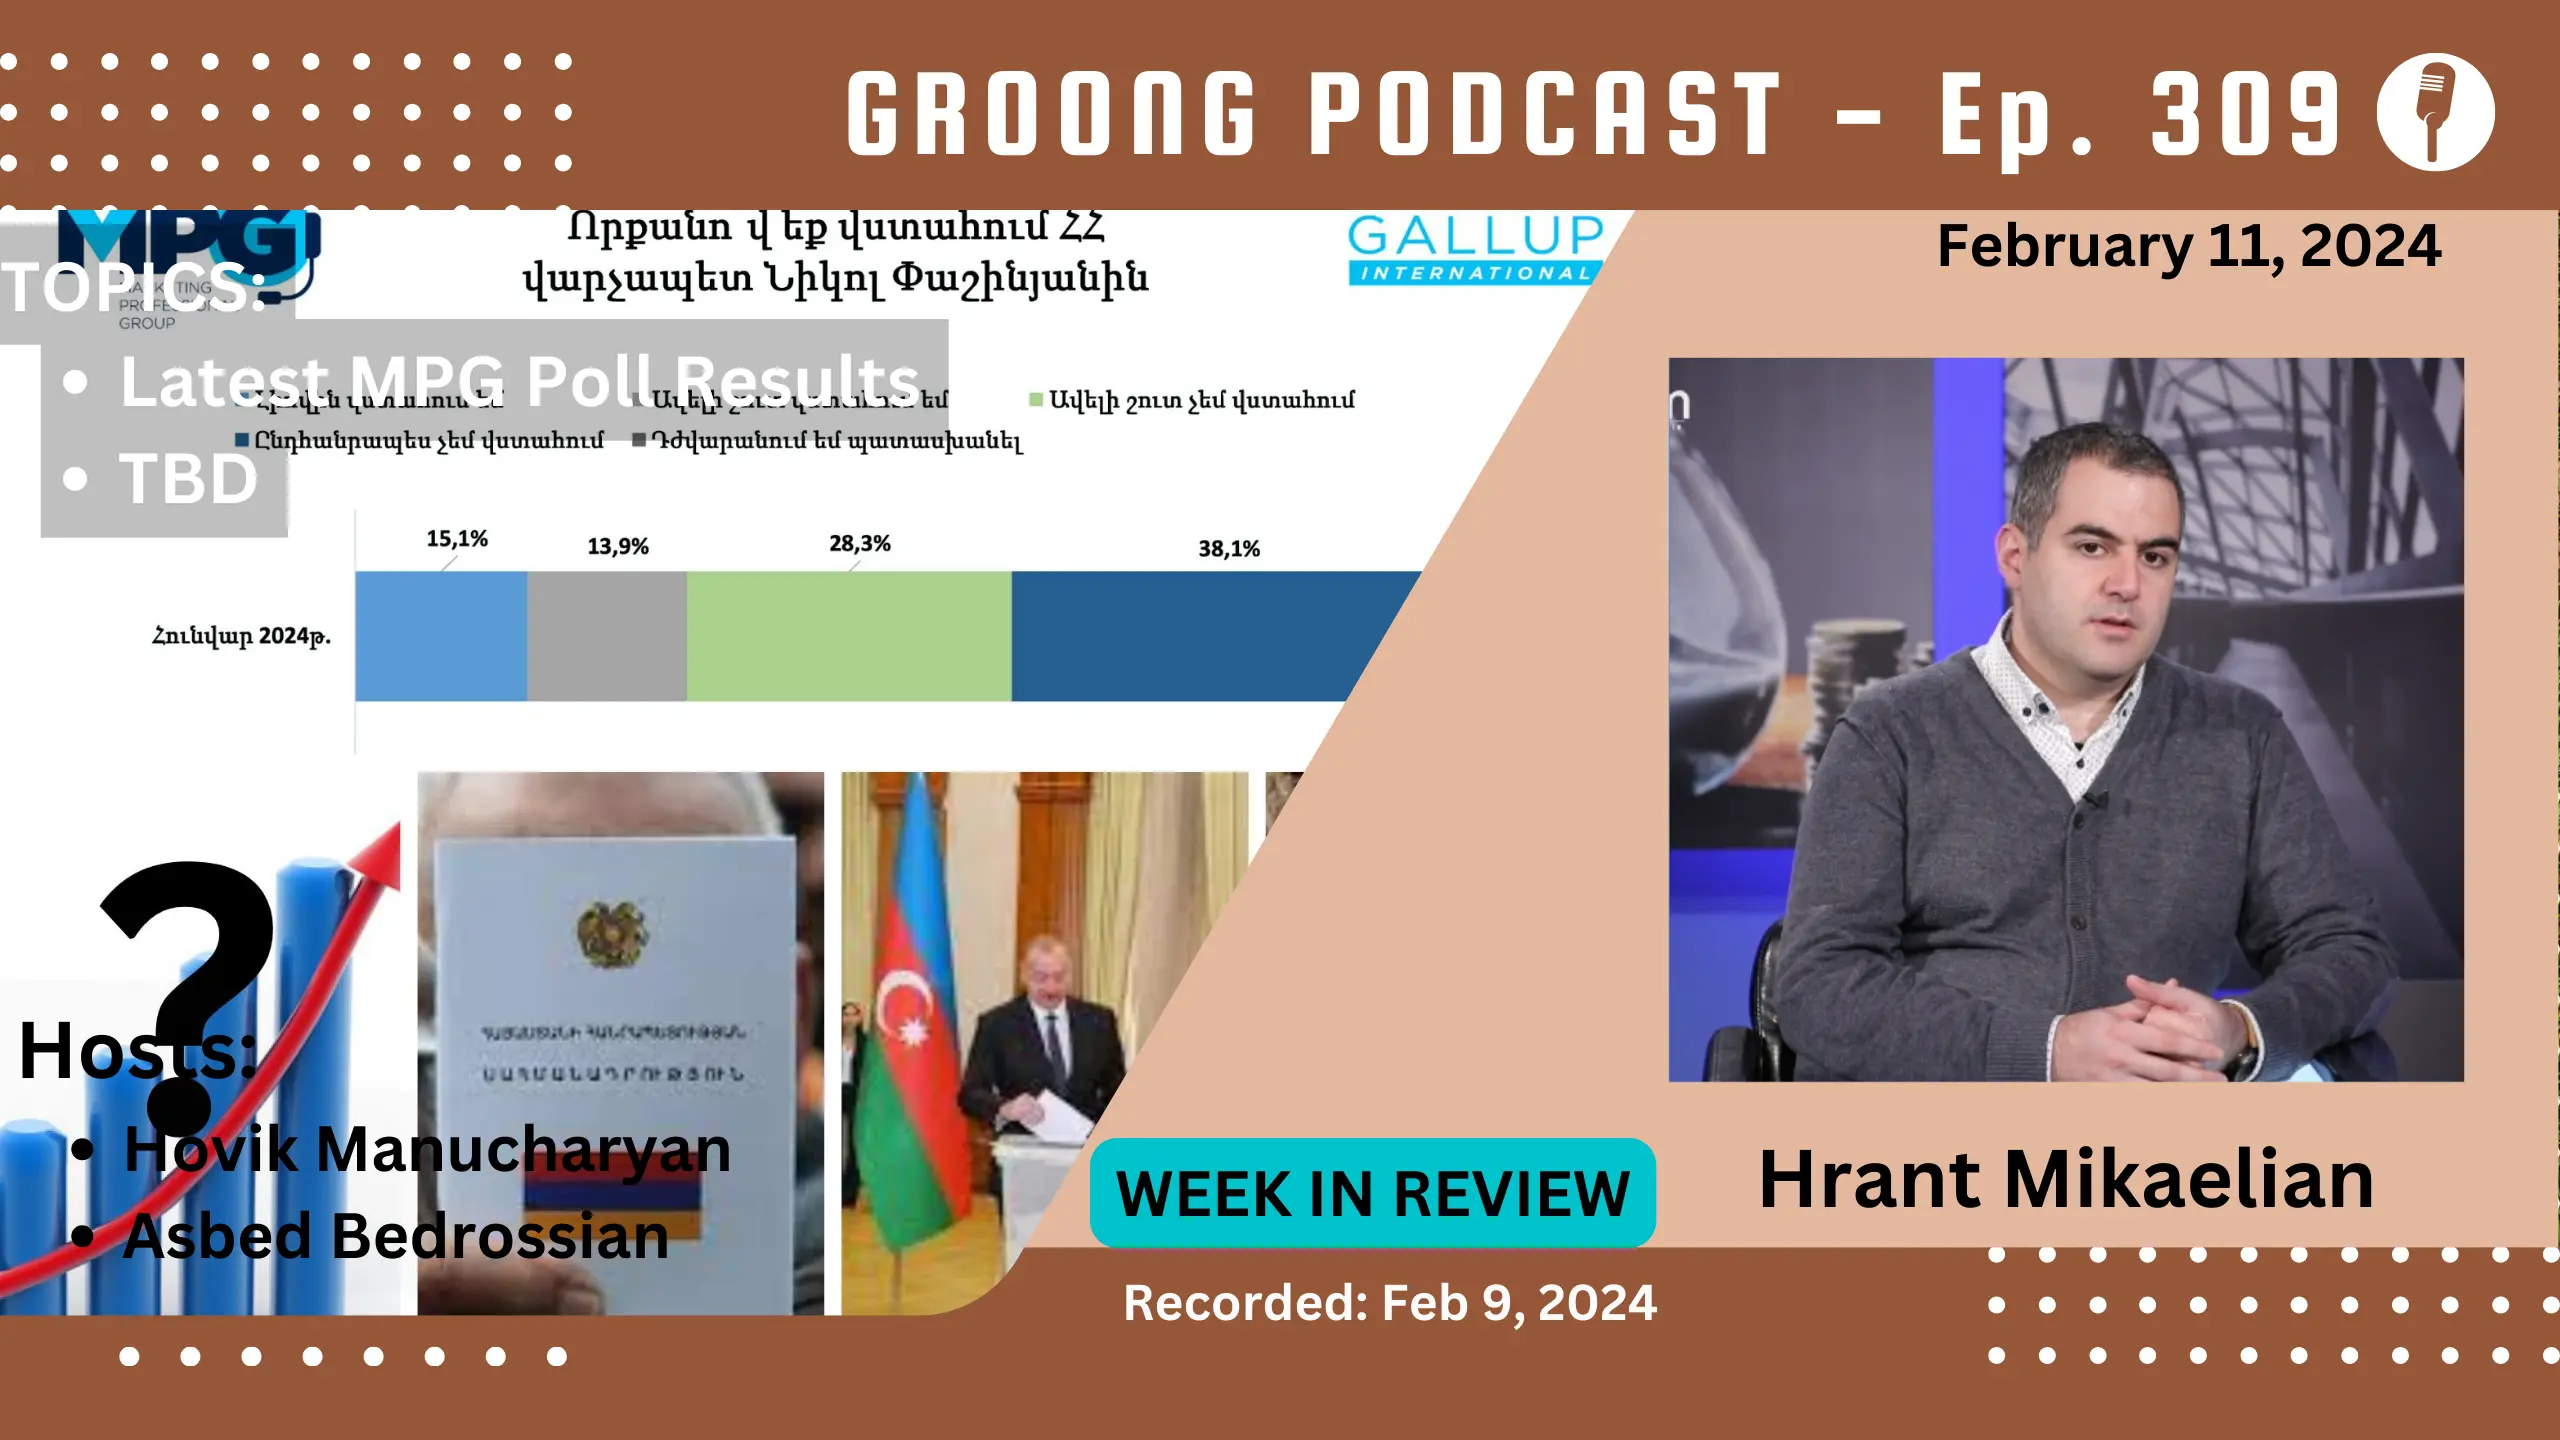
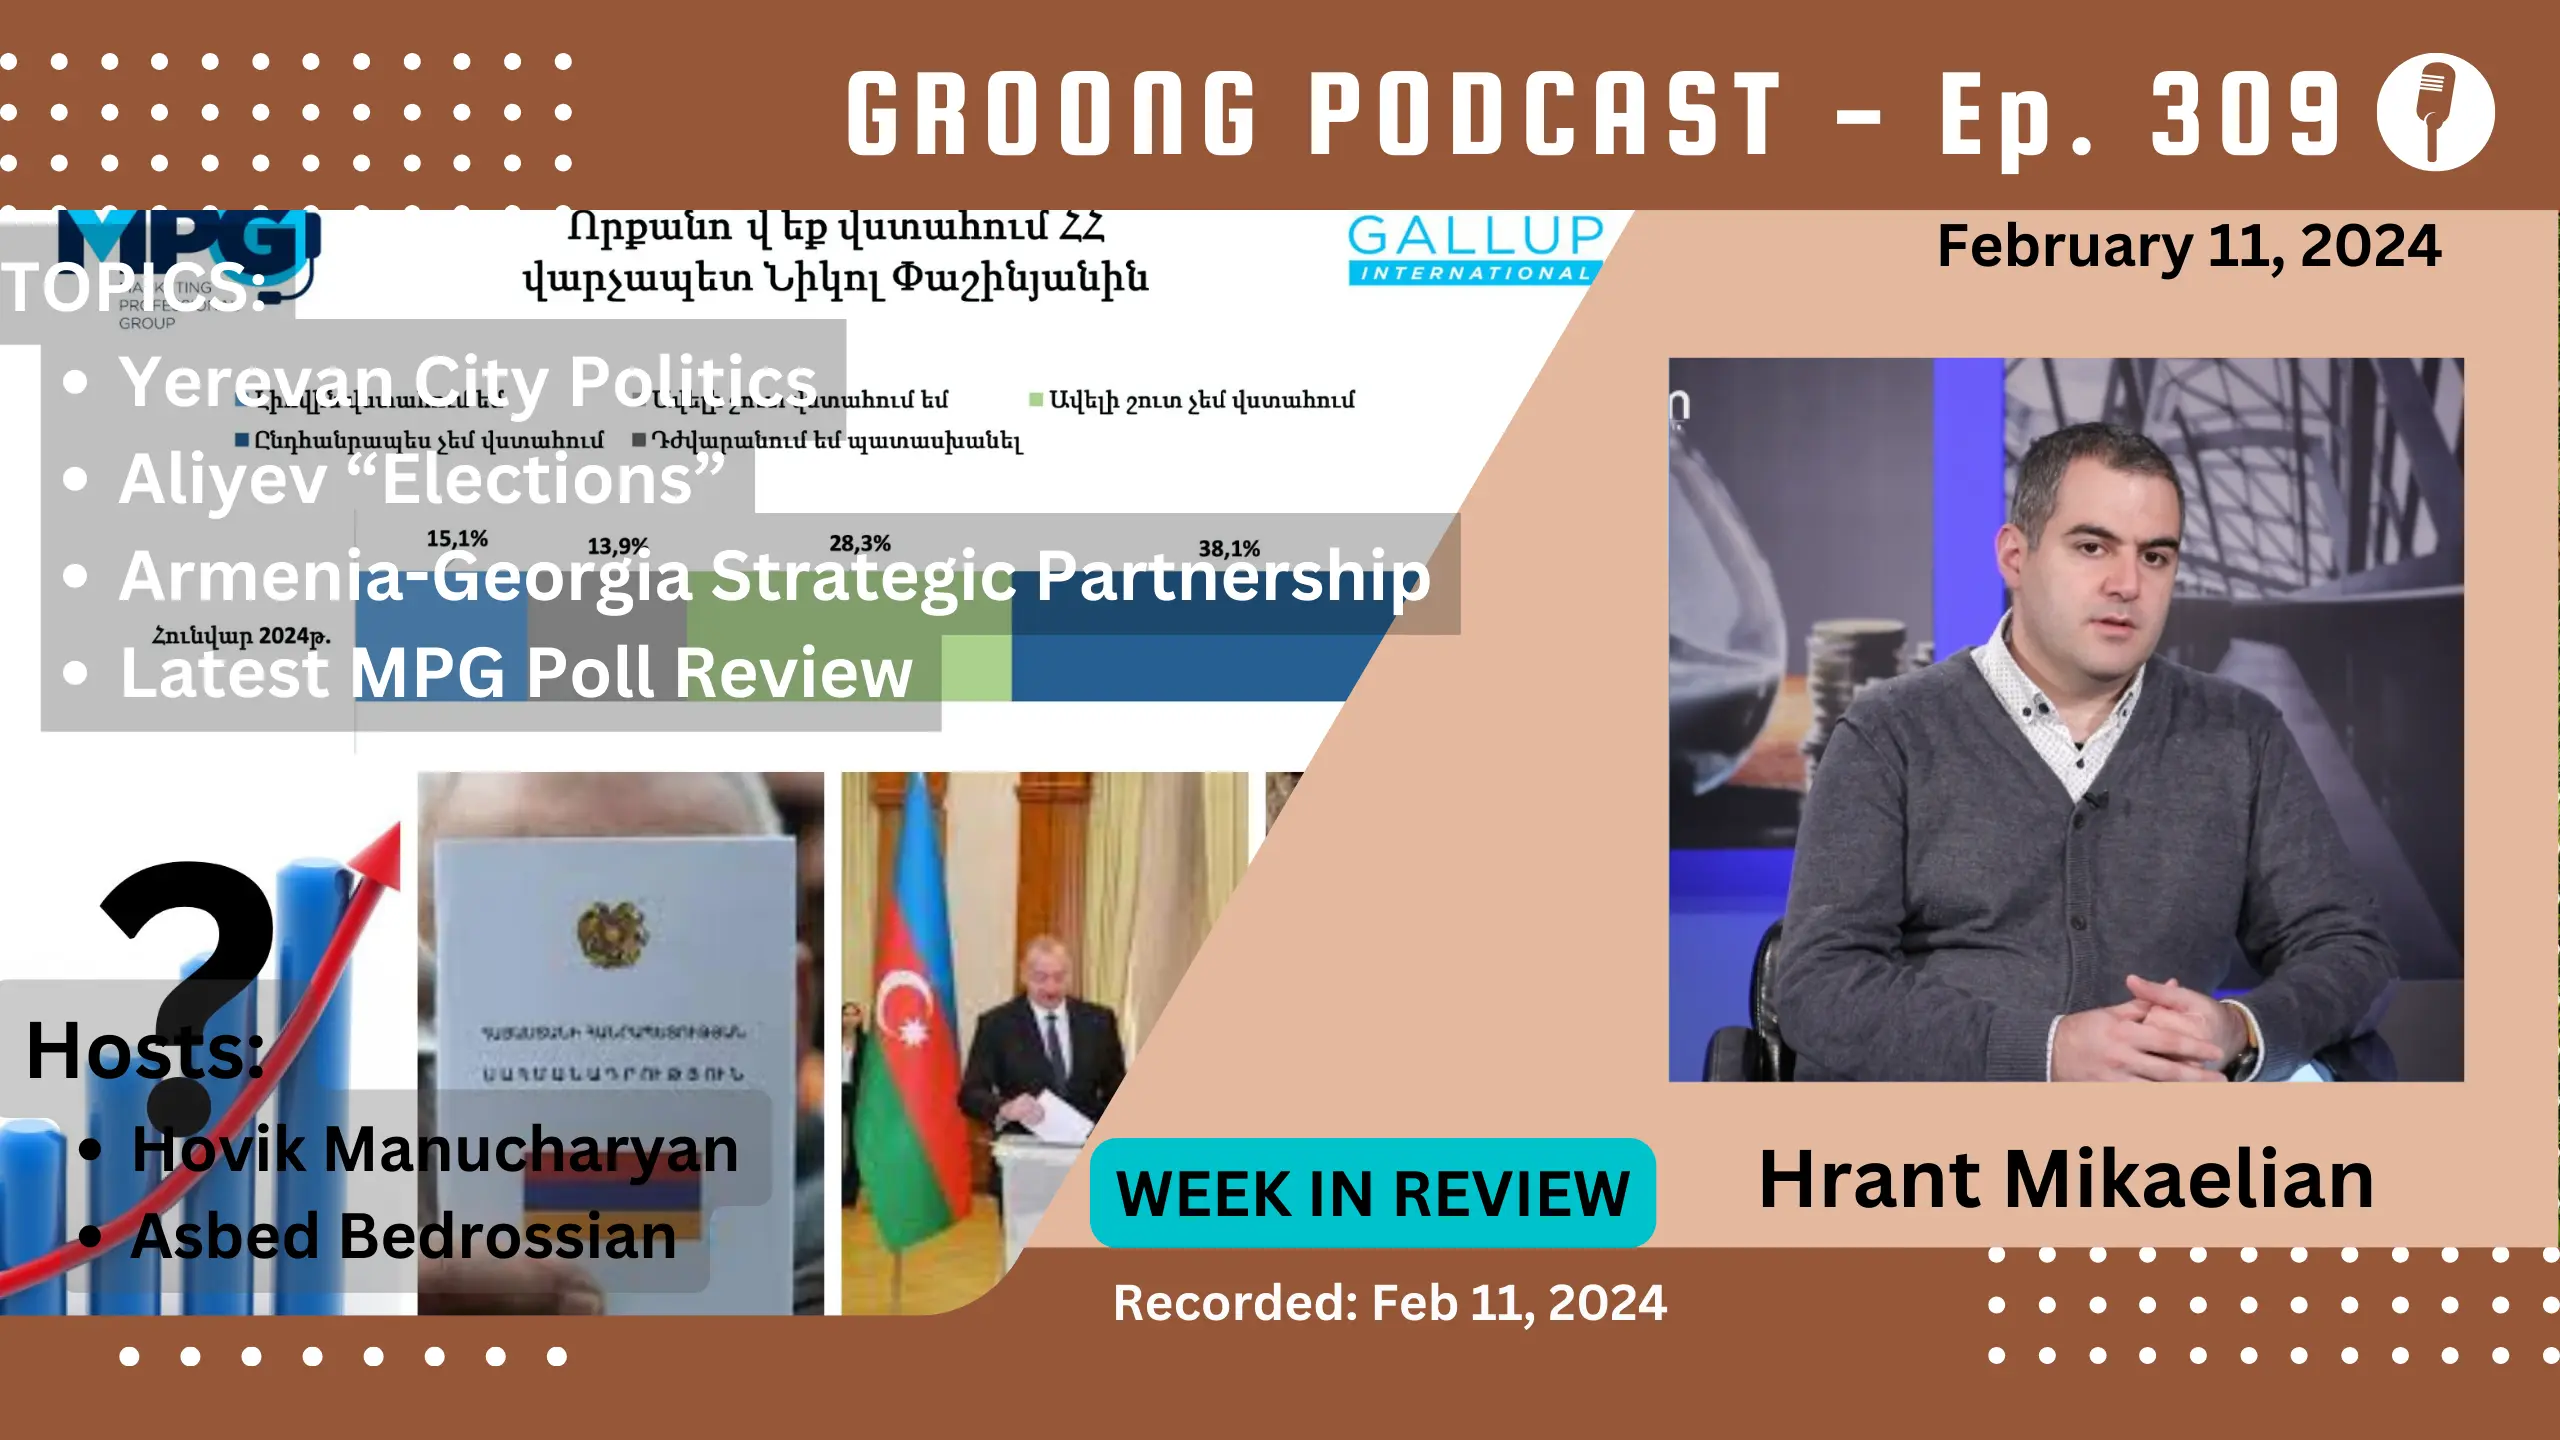
contentify ep 309

Changed region(s): [[0.0, 0.2188, 0.5938, 0.5312], [0.0, 0.6562, 0.3125, 0.9062], [0.4375, 0.8438, 0.6562, 0.9375]]

diff --git a/content/episode/309-hrant-mikaelian-mpg-poll-results-armenian-constitution-economy-politics-negotiations-with-azerbaijan.md b/content/episode/309-hrant-mikaelian-mpg-poll-results-armenian-constitution-economy-politics-negotiations-with-azerbaijan.md
@@ -20,7 +20,7 @@ series = ["wir"]
 categories = ["Armenia", "Politics", "Poll"]
 tags = ["Armenian News", "Azerbaijan Elections", "Artsakh", "Nagorno Karabakh", "MPG Polls", "Hrant Mikaelian", "Ilham Aliyev", "Russia", "Corridors", "Borders", "Peace Negotiations", "United States", "Iran", "Nikol Pashinyan"]
 
-title = "Hrant Mikaelian - MPG Poll Results | Armenian Constitution | Economy | Talks with Azerbaijan | Ep 309 - Feb 11, 2024"
+title = "Hrant Mikaelian - Yerevan Politics | Aliyev “Elections”| Armenia & Georgia | MPG Polls | Ep 309 - Feb 11, 2024"
 subtitle = "ANN Groong Week in Review - February 11, 2024"
 
 Description = """
@@ -32,18 +32,97 @@ Description = """
 * [Hrant Mikaelian](/guest/hmikaelian)
 
 #### Topics:
-* Latest MPG Poll Result Analysis
-* Armenian Constitution
-* Armenian Economy
-* Talks with Azerbaijan
+* Yerevan City Politics
+* Aliyev “Elections”
+* Armenia-Georgia Strategic Partnership
+* Latest MPG Poll Review
 
 Episode 309 | Recorded: Feb 9, 2024"""
 
 +++
 
+## Yerevan Politics
 
-# TOPICS
 
+### Minority Rule in Yerevan
+
+On Thursday, the Yerevan Avagani (Council of Elders, or City Council) met to discuss the canceling of mandates of several opposition council members. The opposition had planned to boycott the council meeting and prevent a quorum, but two members of the Public Voice party joined the meeting and voted with Civil Contract and the Republic party to overcome quorum and also gave them the needed votes to [oust Hayk Marutyan](https://armenpress.am/eng/news/1129742.html), a former mayor of Yerevan and leader of the second largest party in the council, as well as two other council members. Yet another two council members, including Zaruhi Postanjyan survived the vote.
+
+There’s been a lot of acrimonious drama in the Yerevan city council since the September 2023 elections, which were also resolved in a similar manner: Civil Contract and the Republic party did not have the votes to appoint a mayor, and Public Voice party, then led by Vardan Ghukasyan, showed up for the vote and gave them quorum. As appreciation for his efforts, Ghukasyan and his cronies were booted from Public Voice in what amounted to a coup within the party.
+
+Vardan Ghukasyan, by the way, is a controversial figure who came to fame through his scandal-ridden and obscenity-laden Facebook persona. He is believed to be outside Armenia and has the title of “honorable” leader of the party, essentially leading the members remotely. Incidentally, after the scandal with “Public Voice”, Ghukasyan started a new party called “DOK” which is an acronym for «Դեմոկրատիա, օրենք և կարգապահություն» (Democracy, Law, and Discipline) and also his street nickname.
+
+Vahan Avagian, one of the Public Voice council people, [admitted](https://www.azatutyun.am/a/32809595.html) that they were summoned to the Investigative Committee on Tuesday, but would not say what happened there.
+
+**Questions**:
+* What is going on with the Yerevan Avagani?
+* What is the deal with Public Voice (Հանրային Ձայն)? Are they a real party, or a shill for Civil Contract?
+    * In 2023 they organized as a fresh new opposition party, but after the election in September they helped Civil Contract essentially pull a coup and install Tigran Avinyan with a minority of the votes, and now use the same tactics to oust opposition members who are able to block ruling party decisions.
+    * Background info:
+        * Hayots Hayrenik ([polling 0.5% shortly before the 2021 elections](https://medium.com/groong/the-vardan-ghukasyan-party-or-how-social-media-may-affect-armenian-elections-b7739e147355), [ended up winning 1.03% of the final vote](https://res.elections.am/images/doc/reg20.06.21v.pdf))
+        * Public Voice ([polling 3.6% ahead of 2023 elections](https://podcasts.groong.org/279-dziunik-aghajanian-un-security-council-artsakh-yerevan-elections/), [ended up winning 9.7% of the vote](https://res.elections.am/images/forGenerals/Yerevan/protocol17.09.23v_24-09-2023.pdf))
+        * Latest poll ([3.6% this week](https://podcasts.groong.org/309-hrant-mikaelian-mpg-poll-results-armenian-constitution-economy-politics-negotiations-with-azerbaijan/))
+* What’s the story with the party? They removed two of their founding leaders: Vardan Ghukasyan, and Artak Galstyan. On Thursday another one, Anush Ginosyan, left the party but said she’s stay in the city council as an “independent”.
+* Hayk Marutyan and Mayr Hayastan leader Andranik Tevanyan have been calling to hold fresh Yerevan elections. Do you think this is a realistic expectation under the current circumstances? What options are there to achieve a democratic city council?
+
+
+### Allegations of “Unprecedented” Corruption Scheme by Civil Contract
+
+One of the biggest arguments of the supporters of the Pashinyan regime is that “at least we don’t have the corruption of the old times”. That was always a very subjective argument but recent [bombshell allegations](https://armenianweekly.com/2024/02/06/fake-names-on-list-of-donors-to-pashinyans-candidate-for-yerevan-mayor/#:~:text=Pashinyan's%20backers%20resorted%20to%20a,names%2C%20an%20investigation%20has%20revealed.) about political campaign contributions has been called “[unprecedented](https://www.youtube.com/watch?v=MB3WTJyvVjc)” by even western watchdogs.
+
+A [report released by Infocom](https://infocom.am/hy/article/123299) talks about millions of drams being donated to Civil Contract’s campaign involving Tigran Avinyan, ahead of the 2023 elections in Yerevan. The party in total was able to raise over 1.25 million DOLLARS, this is over around 500 million Drams allegedly from common Yerevan residents.
+
+Civil Contract fought back against requests to release the names of donors and when it finally did, after losing the court battle, Infocom was able to track down many donors, each of whom are reported to have donated millions of Drams, generally the maximum allowed which is 2.5 million Drams. However, when asked directly many of them denied making donations or recalled incidents when they were asked to sign bank slips indicating that they are making a cash donation. Many of the alleged donors lived in the same building or neighborhood or worked at the same company. 
+
+Just to sum it up, it appears that certain people convinced their neighbors or coworkers to falsely claim that the cash that was being donated to Civil Contract was being done by them.
+
+**Question:**
+* What is your assessment of this revelation?
+
+
+## Aliyev “Elections”
+
+### Why now?
+
+In Azerbaijan, “presidential elections” were scheduled for October of 2025, but 3 months ago Aliyev decided to hold them a couple of days ago, February 7. Elections are always a farce in Azerbaijan, and this time was no different; it was roundly [slammed](https://www.rferl.org/a/azerbaijan-election-aliyev-landslide-irregularities-karabakh/32810371.html) by observing international agencies. For months now Aliyev has been jailing journalists, opposition members, activists, and even international observers.
+
+As a result, he secured more than 92% of the vote based on so-called “initial results”. Why go to the trouble though… Hasn’t Aliyev been following the news in Yerevan, where you can get only 9% of the votes, not win a majority, and still be able to form a “majority government!”
+
+Look, we all know that elections in Azerbaijan are like choosing your favorite flavor of expired mayonnaise: you can pick between rancid, spoiled, or chunky... but no matter what, you're still stuck with a nauseating taste! What we’d like to know is why now and what comes next.
+
+**Question**:
+* What was the reason that Aliyev chose to hold snap elections now instead of October 2025?
+
+
+### EU Congratulates
+
+Since his “election” victory, Aliyev was [congratulated](https://armenpress.am/eng/news/1129906.html) by the EU’s Charles Michel for a victory that the OSCE slammed as “neither free nor fair”. Let me re-emphasize this: we’re talking about the EUROPEAN Union’s co-president congratulating the so-called election of a dictator, whose election was slammed by the ORGANIZATION OF SECURITY AND COOPERATION OF EUROPE. What could be more hypocritical here?
+
+Michel also said he “hoped” that Aliyev would return to Western sponsored talks with Armenia. Meanwhile Russia has further [insisted](https://www.azatutyun.am/a/32811083.html) that Armenia must agree to come to talks in Moscow.
+
+**Question**:
+* It looks like both the west and Russia are turning up the pressure on Armenia and Azerbaijan to get back to talks, and each side demands that they broker the deal. Why?
+
+Incidentally, just as an in-your-face to Armenians, Aliyev and family voted in Stepanakert. What’s tragic about Aliyev is that can’t get over his need to come back to the capital of a country that he just ethnically cleansed.
+
+**Questions**:
+* How would talks now, after Aliyev’s renewed consolidation of power, be different from talks in the past year?
+* This past week we have again heard hints from Pashinyan allies that he may organize early elections. How would this change things, both within Armenia and also in the talks with Azerbaijan?
+* What does the future hold, how do you see the likelihood of a new war?
+
+
+## Armenia-Georgia Strategic Partnership
+
+On January 26 Pashinyan was in Tbilisi and met with Georgian prime minister Irakli Gharibashvili. The two signed a strategic partnership between the two countries, which apparently encompasses a dozen areas, but leaves out defense cooperation. We have not seen this document, and a Georgian expert we just talked to, David Darchiashvili, thinks that perhaps at this point in time it’s a statement of intent and good will, more than a fleshed out agreement.
+
+A couple of simple questions, because we’re going to run out of time.
+
+**Questions**:
+* What does this strategic partnership mean for the two countries, and what tangible benefits can be expected from it?
+* Why was defense left out? Seems like an important component of any strategic partnership.
+
+
+## New MPG Poll
 
 ### 1: Methodology
 
